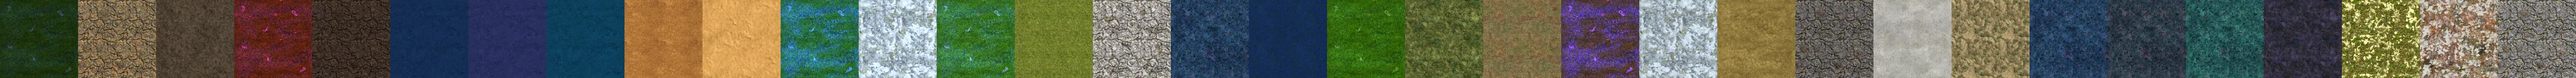
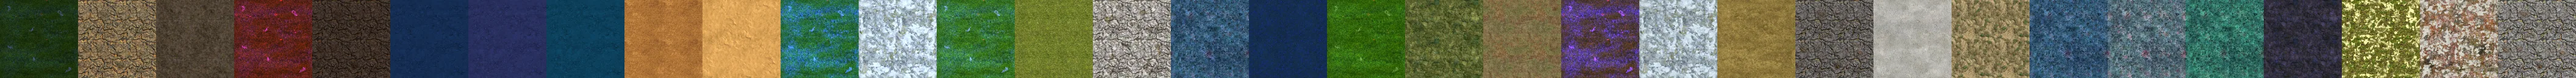
feat(web): coast base × detail, no sea anchor, no plot-count cap
Three changes, all "use what the art define binds, and stop capping what it
reaches".

BASE × DETAIL. `ART_DEF_TERRAIN_COAST` binds `<Path>` (the atlas — colour and the
painted shoreline) AND `<Detail>` (coastdetail.dds — all the grain). We drew only
the base, so a coast plot was flat painted art while the terrain beneath supplied
grain the tile then covered. The detail needed no new bake: `bakeShoreTile`
already renders coastdetail.dds neutral-mean greyscale (mean 128, contrast 1.3,
seamless) and ships it as `shore`, where it sat UNREAD — orphaned when the shallow
band it was written for was deleted. Composited with `hard-light`, the canvas
operator that is neutral at grey-128 with the detail on top, i.e. Civ4's
modulate2x; `multiply` would halve the whole coast. Applied only over plots that
took a cell — every other water plot's ground tile IS the recoloured detail, so
modulating again would double the contrast.

SEA_ANCHOR REMOVED. It supplied only a LUMINANCE — `hueAtLuminance(anchor, art)`
took the hue from the art and the brightness from the anchor — which made it the
last invented number in the water pipeline. The sea now goes through the identical
rule terrainRealColors applies to all 16 land terrains (base × detail) followed by
the lift, which is hoisted to a module-level TERRAIN_LIFT so land and water cannot
drift. Bands move temp 58 → 80 luma, trop 74 → 92, polar 56 → 104; the polar ocean
[…]

Changed region(s): [[0.7812, 0.0, 0.9062, 1.0], [0.4375, 0.0, 0.5, 1.0]]

diff --git a/docs/civ4-texture-inventory.md b/docs/civ4-texture-inventory.md
@@ -247,19 +247,25 @@ detail, and either works as neutral grain — but coastdetail is what `ART_DEF_T
 while shoredetail belongs to `LAKE_SHORE`, and our shallows are the sea shelf. A correctness fix, not
 a visible one: the Civ6 coast tile still wins where it is available.
 
-**P3 — faithful shoreline shape.** Two halves, and they are separable:
+**P3 — faithful shoreline shape. DONE, and the falloff half arrived by a different route than planned.**
 
-- *Falloff.* Bake the sixteen `coastscalemask00..15.tga` into one strip and index it by the plot's
-  4-bit water-neighbour mask. Replaces `coastDepth`'s per-corner hash with the authored ramp. Needs
-  **colour-mapped TGA support in `web/tga.mjs`** — the mask families are 8-bit palettised and today's
-  decoder is truecolour-only (a working reader is ~40 lines; it was prototyped to produce this
-  document's figures).
-- *Wiggle.* Extend `TerrainArtExporter.KEEP` — or add a water-terrain pass beside it — so the coast
-  `ART_DEF`s export their `TextureBlend` tables (every one carries a full 15-entry table already), then
-  select the atlas cell by bitmask + rotation instead of hashing. Same unlock as §3.4 for land.
+- *Wiggle.* **SHIPPED.** `TerrainArtExporter.KEEP` was extended with the eight water terrains (§6), so
+  the coast `ART_DEF`s export their `TextureBlend` tables — 24 of the 33 manifest entries now carry a
+  full 15-entry table — and the atlas cell is selected by bitmask + rotation. The hash survives, but
+  only to pick among the authored VARIANTS a configuration offers, which is what this document asks
+  for below: one scallop stamped into every coastal cell of a 5,264-province world reads as a rhythm.
+- *Falloff.* **The blocker is gone, and so is the reason.** Colour-mapped TGA support landed
+  (`web/tga.mjs` + `tga.test.mjs`), `bakeCoastMasks` decodes all sixteen and ships `coastmask.webp` —
+  and it goes unread, because what it was written to replace (`coastDepth`'s per-corner hash) was
+  deleted along with the rest of the procedural shoreline. Since the coast cell now ships whole with
+  its **authored 128px alpha** (§6), the shoreline shape is already the authored one; the masks are
+  the same shape at 16px. This document says as much where it lists them: `coastlandblends.dds` is
+  "the cheap way to get Civ4's wiggle *without decoding the full 700 KB atlas*". We decode the atlas.
 
-Order matters: P1 was a bake plus a fill change, P2 a bake plus a renderer change, P3 is the one that
-touches the Java exporter.
+**Measured, so the next reader does not re-open it:** the sixteen masks are corner-keyed in our own bit
+order (`01`→NW dark, `02`→NE, `04`→SE, `08`→SW; `00` and `15` solid white), exactly like the
+`TextureBlend` table. Wiring them in would swap a 128px authored mask for a 16px one, and it would
+**not** fix the orthogonal-contact gap (§6) — `00`/`15` being blank is the same corner blindness.
 
 ### What stays procedural, on purpose
 
@@ -437,3 +443,35 @@ warm tan around Anbenncost.
 - `CoastDeepDetail.dds` and the `*_DEEP` terrains are unbound: the engine stamps no deep-coast key, so
   there is nothing to bind them to.
 - The water terrains' own 16-way `TextureBlend` tables are exported and unread, exactly like land's.
+
+### Amendments — what changed after §6 first landed
+
+Three corrections, all from measurement, all in the same session:
+
+1. **The coast cell ships WHOLE now.** `bakeCoastTiles` used to multiply each pixel's alpha by a warmth
+   ramp `(r-b)/40` so only the sand survived. That discarded the base's painted water and — worse —
+   **overwrote the authored shoreline mask** with a hand-rolled function, undoing P3 one stage earlier.
+   Its own justification had expired: "we have no base to replace: water plots are drawn TRANSPARENT".
+   They are not, since §6. Alpha-0 went 74% → 36%, near-opaque 11% → 52%, mean alpha 41 → 143.
+2. **The base is modulated by its detail, as the art define binds it.** `ART_DEF_TERRAIN_COAST` binds
+   `<Path>` (the atlas — colour + painted shoreline) *and* `<Detail>` (`coastdetail.dds` — all the
+   grain, mean luma 131.9 with alpha 0 throughout, which is a modulate map, not a ground texture). We
+   drew only the base. The detail needed no new bake: `bakeShoreTile` already renders it neutral-mean
+   greyscale and ships it as `shore`, where it sat unread. Composited with `hard-light`, the canvas
+   operator neutral at grey-128 with the detail on top — Civ4's modulate2x. `multiply` would halve the
+   whole coast.
+3. **`MAX_TEX_PLOTS` is gone.** `extendCoastIntoWater` runs only inside the textured build, so every
+   province over the 20,000-plot cap drew no coast tile at all — **15 of the 365 coastal water
+   provinces**, whole shorelines where the sea ran straight into the land. Only 11 of 4,804 land
+   provinces are over it either way. The per-frame build budget still defers a huge province to a later
+   frame; it now takes its turn late rather than never being textured.
+
+**The one thing authored art cannot fix.** A water plot touching land ONLY orthogonally has all four
+diagonals water → config 15 → cell 29, the flat interior tile, so the sea runs into the land with no
+shore. Measured at 9 of 417 ring plots (2.2%). Both the `TextureBlend` table and the sixteen masks are
+corner-keyed, so neither has anything to say about an edge: Civ4 blends terrain on a MESH whose
+vertices are plot corners, and edge contact is carried by the geometry. A per-plot square stamp has no
+equivalent. The long-term answer is a corner lattice rather than more art — `js/heightfield.mjs`
+already indexes plot corners for the 3D terrain, so the vertex grid exists; it is the 2D tex-canvas
+rasteriser that still thinks in squares. (Rivers are NOT part of that: ours are pixel/centre-line by
+data, and `docs/river-rendering.md` §5 rejected edge-based river art for exactly that reason.)

diff --git a/docs/terrain-3d.md b/docs/terrain-3d.md
@@ -155,7 +155,7 @@ The design as built, and the six things that were not obvious going in:
 
 - **`drawPlots` still runs; only its BLITS are skipped.** It was tempting to have the renderer own plot
   loading and texture building, and it would have duplicated the viewport cull, the lazy `loadPlots`, the
-  6 ms/frame build budget and `MAX_TEX_PLOTS`. Instead `drawPlots` keeps all of it and terrain3d reads
+  6 ms/frame build budget. Instead `drawPlots` keeps all of it and terrain3d reads
   `p._tcanvas`/`_tbox` off what that pass maintains. The 3D path added no fetching or scheduling code.
 - **Three loads lazily, and that answers the bundle objection.** 751 KB / 188 KB gz behind a dynamic
   `import()` fired the first time the camera crosses band 5, so the cost falls only on sessions that
@@ -221,9 +221,10 @@ mesh shows through.
   asynchronously via `loadPlots`.
 - **`CanvasTexture` on the existing `p._tcanvas`**, WeakMap-keyed on the canvas object so invalidation is
   free (every rebuild allocates a fresh canvas, so the existing `p._tcanvas = null` hooks suffice). UVs
-  must account for `buildPlotTexCanvas`'s `PAD = 2` cells of transparent margin. A province over
-  `MAX_TEX_PLOTS` (20 000) never builds a `_tcanvas` at all — it falls back to `_pcanvas` with
-  `NearestFilter`.
+  must account for `buildPlotTexCanvas`'s `PAD = 2` cells of transparent margin. (There was also a
+  `MAX_TEX_PLOTS` cap — 20 000 — above which a province never built a `_tcanvas` at all and fell back
+  to `_pcanvas` with `NearestFilter`. Removed: the coast tiles draw only inside the textured build, so
+  the cap silently cost 15 coastal water provinces their entire shoreline art.)
 - **Sea provinces get flat meshes at y = 0** with their own `_tcanvas` (`buildPlotTexCanvas` already
   handles water), plus a horizon plane. `sea.drawSeaBase` is the one layer above the cut that cannot be
   projected — it fills the viewport from the latitude at each screen row and is not geometry at all — so
